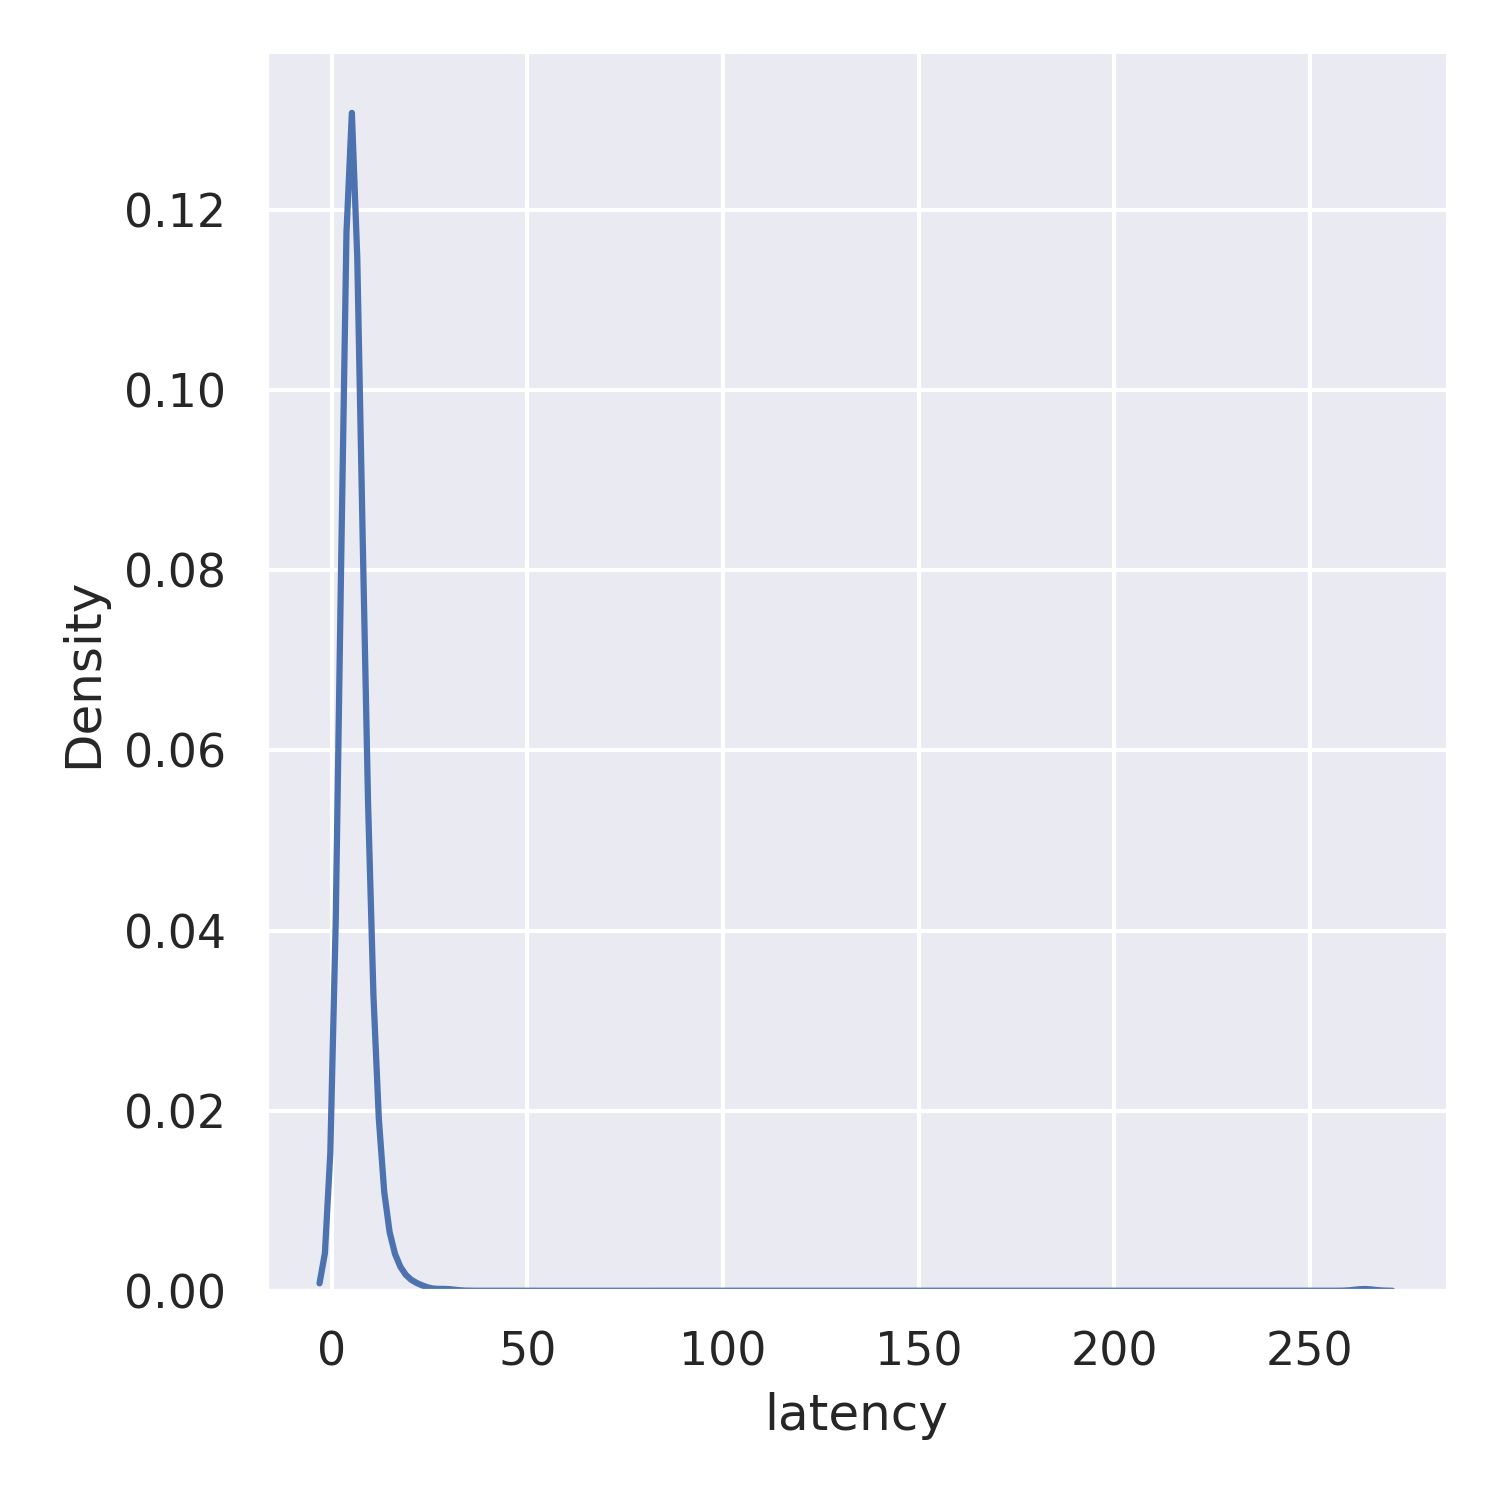
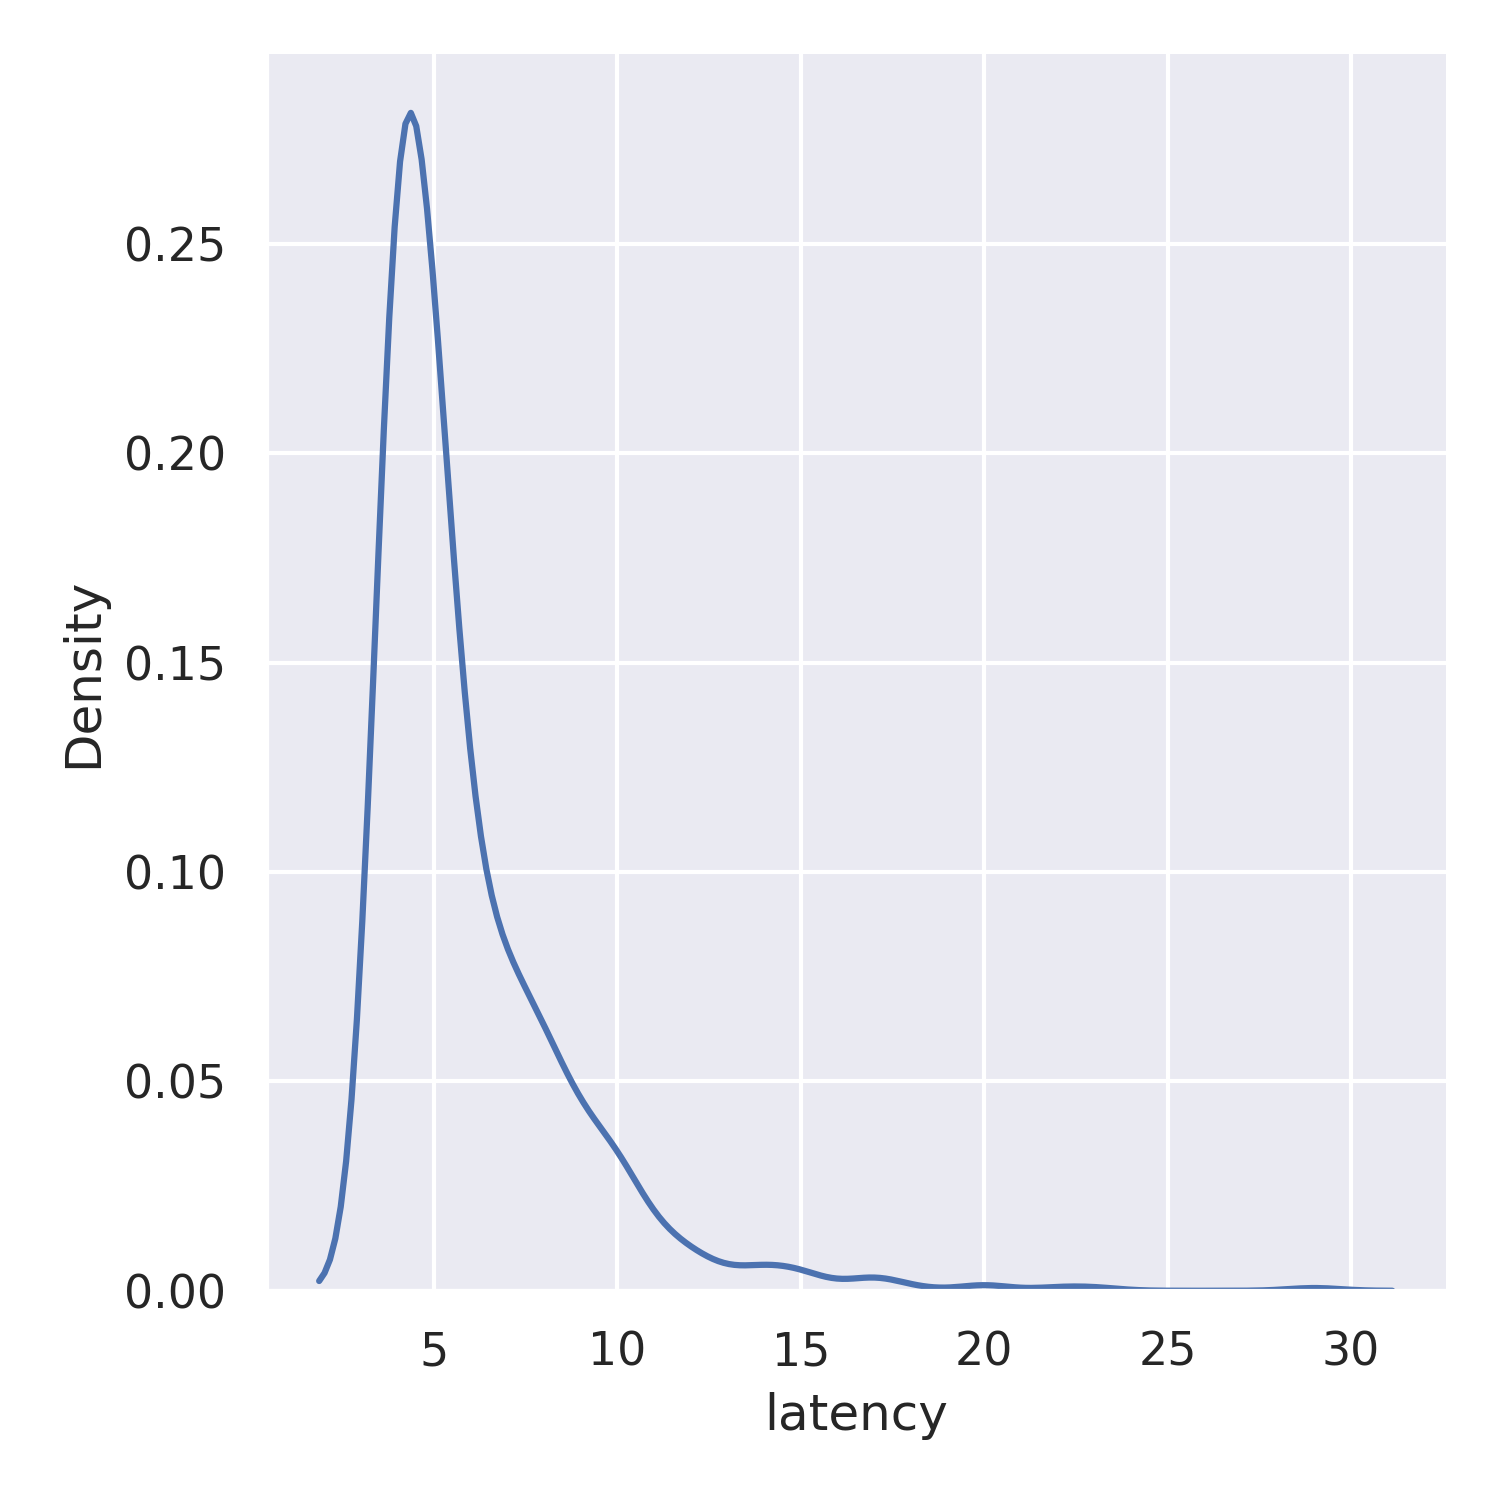
remove outlier in wifi interference data file

diff --git a/jupyter_notebook/generate_plots.py b/jupyter_notebook/generate_plots.py
@@ -15,15 +15,10 @@ def gen_plot_for_latency(data_file):
         header=None,
         usecols=[2],
         names=["latency"],
-        engine="python"
+        engine="python",
     )
 
     latency_df = df.drop(df[df.latency < 4].index)
-
-#    print(data_file + ":")
-#    print(latency_df.describe())
-
-#    print(latency_df.value_counts())
 
     sns.displot(data=latency_df, x="latency", kind="kde")
     plt.savefig(data_file + "_dist_kde.png", dpi=300)
@@ -31,15 +26,21 @@ def gen_plot_for_latency(data_file):
     sns.histplot(data=latency_df, x="latency", discrete=True)
     plt.savefig(data_file + "_hist.png", dpi=300)
 
-def gen_plot_for_tp(data_info,axes):
-    data_file, description,fil,col = data_info
-    df = pd.read_csv(data_file+'.dat', delimiter=r'\s+')
-    rel = sns.relplot(ax=axes[fil,col],x="Frequency", y="Throughput", data=df, kind="line",marker='o')
-#    rel.set(xscale='log')
-#    rel.figure.suptitle(description)
-#    plt.title(description)
-    plt.xscale('log', base=2)
+
+def gen_plot_for_tp(data_info, axes):
+    data_file, description, fil, col = data_info
+    df = pd.read_csv(data_file + ".dat", delimiter=r"\s+")
+    rel = sns.relplot(
+        ax=axes[fil, col],
+        x="Frequency",
+        y="Throughput",
+        data=df,
+        kind="line",
+        marker="o",
+    )
+    plt.xscale("log", base=2)
     plt.savefig(data_file + ".png", dpi=300)
+
 
 data_files = [
     "latency_serial_best-effort",
@@ -47,21 +48,21 @@ data_files = [
     "latency_wifi_best-effort",
     "latency_wifi_reliable",
     "latency_best_effort_Wi-Fi_interference",
-    "latency_reliable_Wi-Fi_interference"
+    "latency_reliable_Wi-Fi_interference",
 ]
 
 
 for data_file in data_files:
     gen_plot_for_latency(data_file)
 
-data_infos= [
-    ("throughput_serial_best_effort",'Conexión en serie, modo best-effort',0,0),
-    ("throughput_serial_reliable",'Conexión en serie, modo reliable',0,1),
-    ("throughput_wifi_best_effort",'Conexión Wi-Fi, modo best-effort',1,0),
-    ("throughput_wifi_reliable", 'Conexión Wi-Fi, modo reliable',1,1),
+data_infos = [
+    ("throughput_serial_best_effort", "Conexión en serie, modo best-effort", 0, 0),
+    ("throughput_serial_reliable", "Conexión en serie, modo reliable", 0, 1),
+    ("throughput_wifi_best_effort", "Conexión Wi-Fi, modo best-effort", 1, 0),
+    ("throughput_wifi_reliable", "Conexión Wi-Fi, modo reliable", 1, 1),
 ]
 
 
 for data_info in data_infos:
-    fig, axes = plt.subplots(2,2)
+    fig, axes = plt.subplots(2, 2)
     gen_plot_for_tp(data_info, axes)
